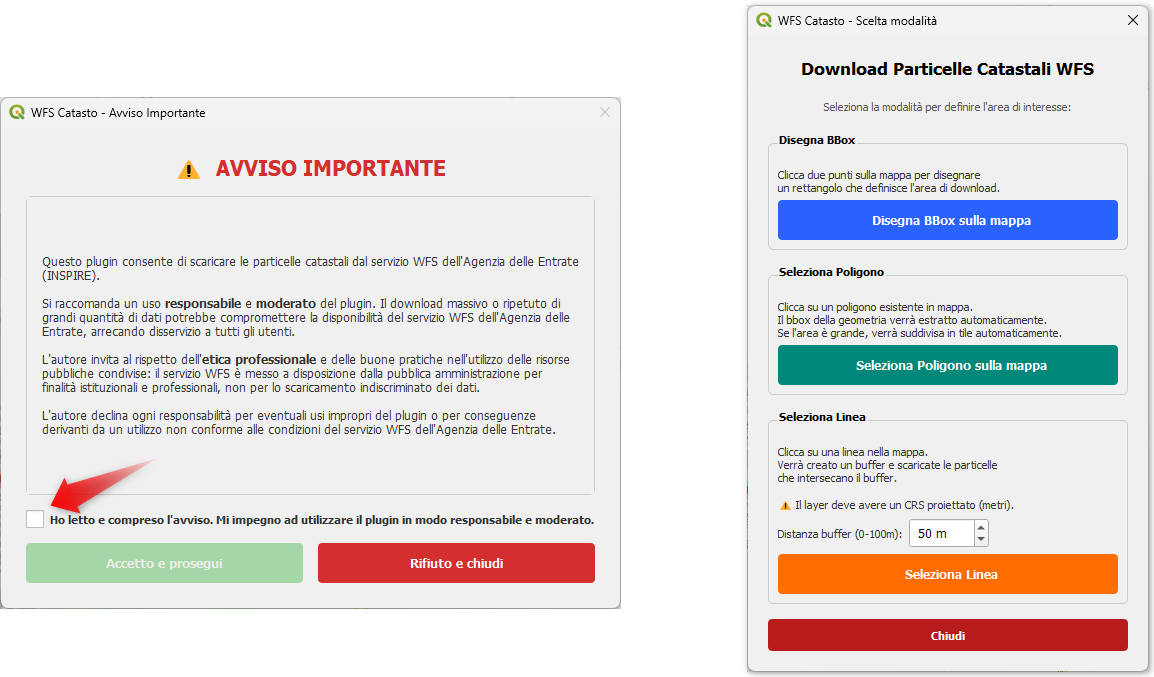
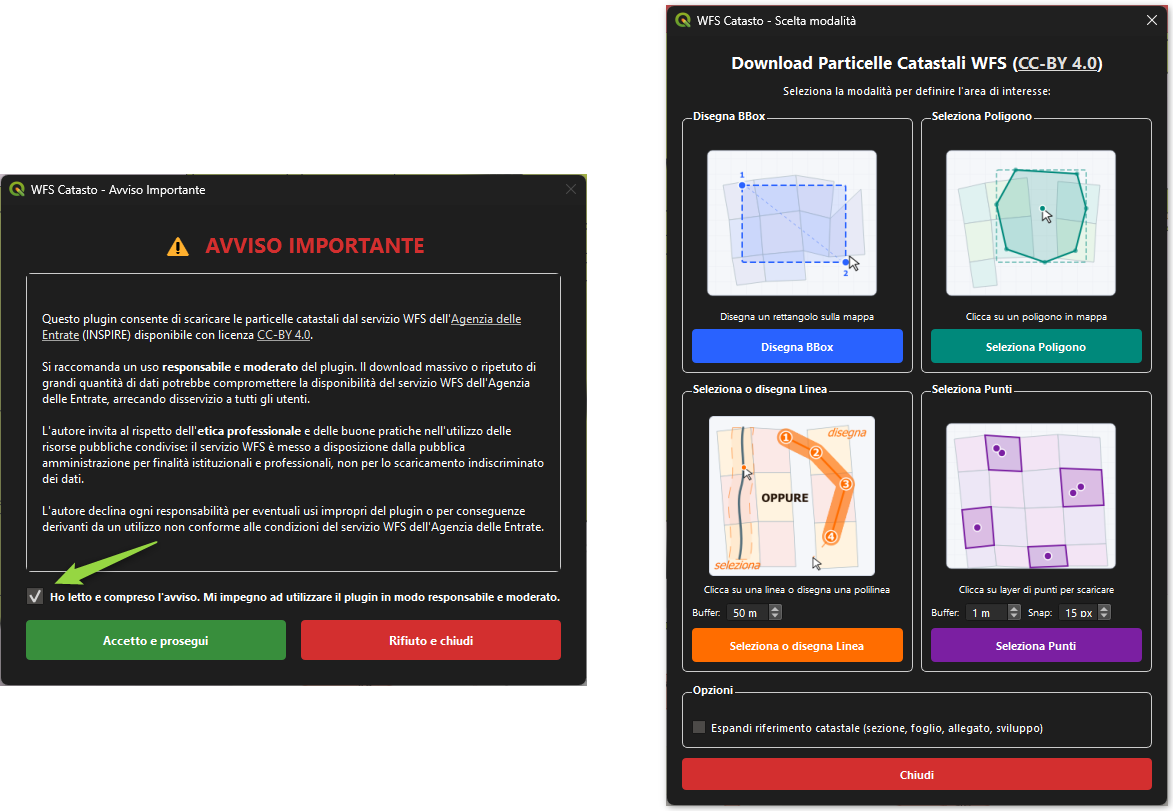
Aggiorna README.md con nuove funzionalità e changelog; modifica screen2.png

diff --git a/README.md b/README.md
@@ -1,18 +1,33 @@
 # WFS Catasto Download Particelle BBox
 
-Plugin per QGIS che consente di scaricare le particelle catastali dal servizio WFS dell'Agenzia delle Entrate (INSPIRE).
+Plugin per QGIS che consente di scaricare le particelle catastali dal servizio WFS dell'[Agenzia delle Entrate](https://www.agenziaentrate.gov.it/portale/cartografia-catastale-wfs) (INSPIRE) disponibile con licenza [CC-BY 4.0](https://creativecommons.org/licenses/by/4.0/deed.it).
 
 ![Panoramica del plugin in QGIS](./screen.png)
 
 ## Funzionalità
 
-Tre modalità di selezione dell'area di interesse:
+Quattro modalità di selezione dell'area di interesse:
 
 1. **Disegna BBox** - Clicca due punti sulla mappa per disegnare un rettangolo che definisce l'area di download.
 2. **Seleziona Poligono** - Clicca su un poligono esistente in mappa per estrarne automaticamente il bounding box. Se l'area è grande, viene suddivisa in tile automaticamente.
-3. **Seleziona Linea** - Clicca su una linea nella mappa e crea un buffer personalizzabile (0-100m) per scaricare le particelle che lo intersecano. Il layer deve avere un CRS proiettato (metri).
+3. **Seleziona o disegna Linea** - Clicca su una linea esistente oppure disegna una polilinea direttamente sulla mappa (click sinistro per aggiungere vertici, click destro per terminare, ESC per annullare). Crea un buffer personalizzabile (0-100m) per scaricare le particelle che lo intersecano.
+4. **Seleziona Punti** - Clicca su un layer di punti (o direttamente in mappa) per scaricare le particelle che contengono i punti. Supporta selezione parziale e auto-riproiezione UTM per CRS geografici.
 
-### Opzione: Espandi riferimento catastale (v1.1.0)
+### Funzione per il calcolatore di campi (v1.4.2)
+
+Il plugin registra la funzione `get_particella_info($geometry)` nel gruppo **Catasto** del Field Calculator. Interroga il WFS e restituisce un array con:
+
+| Indice | Contenuto |
+|--------|-----------|
+| `[0]` | NATIONALCADASTRALREFERENCE |
+| `[1]` | Foglio |
+| `[2]` | LABEL (numero particella) |
+| `[3]` | Codice comune (ADMINISTRATIVEUNIT) |
+| `[4]` | Geometria WKT |
+| `[5]` | Sezione censuaria |
+| `[6]` | Allegato |
+
+### Opzione: Espandi riferimento catastale
 
 Nella sezione **Opzioni** della finestra di scelta modalità è disponibile il checkbox **"Espandi riferimento catastale"**. Quando attivato, il plugin analizza il campo `NATIONALCADASTRALREFERENCE` e ne estrae 4 nuovi attributi nel layer di output:
 
@@ -36,13 +51,15 @@ Per ulteriori dettagli sulla codifica, consultare l'articolo di [Andrea Borruso]
 
 - Download multi-tile con progress bar per aree estese
 - Deduplicazione automatica delle feature
-- Filtro spaziale per la modalità linea con buffer
+- Filtro spaziale per tutte le modalità
 - Espansione opzionale del riferimento catastale nazionale
+- GUI con illustrazioni SVG e griglia 2x2
+- Tasto ESC per annullare qualsiasi modalità
 - Compatibile con QGIS 3 (Qt5) e QGIS 4 (Qt6)
 
 ## Interfaccia
 
-Al primo avvio per sessione QGIS viene mostrato un avviso obbligatorio sull'uso responsabile del plugin. Dopo l'accettazione si accede alla finestra di scelta modalità, che resta in primo piano permettendo di navigare la mappa prima di selezionare la modalità.
+Al primo avvio per sessione QGIS viene mostrato un avviso obbligatorio sull'uso responsabile del plugin. Dopo l'accettazione si accede alla finestra di scelta modalità con griglia 2x2, che permette di navigare la mappa prima di selezionare la modalità.
 
 ![Finestra di avviso e scelta modalità](./screen2.png)
 
@@ -71,6 +88,16 @@ Si raccomanda un uso **responsabile** e **moderato** del plugin. Il download mas
 L'autore invita al rispetto dell'**etica professionale** e delle buone pratiche nell'utilizzo delle risorse pubbliche condivise: il servizio WFS è messo a disposizione dalla pubblica amministrazione per finalità istituzionali e professionali, non per lo scaricamento indiscriminato dei dati.
 
 L'autore declina ogni responsabilità per eventuali usi impropri del plugin o per conseguenze derivanti da un utilizzo non conforme alle condizioni del servizio WFS dell'Agenzia delle Entrate.
+
+## Changelog
+
+- **1.4.2** - Funzione `get_particella_info($geometry)` per il calcolatore di campi
+- **1.4.1** - Disegno polilinea nella modalità Linea, licenza CC-BY 4.0 cliccabile, link cliccabili nell'avviso, fix GUI in primo piano
+- **1.4.0** - Nuova modalità Seleziona Punti, GUI griglia 2x2, tasto ESC
+- **1.3.0** - Illustrazioni SVG nella GUI, icona SVG
+- **1.2.0** - Ottimizzazione filtro spaziale modalità Poligono
+- **1.1.0** - Espansione riferimento catastale (sezione, foglio, allegato, sviluppo)
+- **1.0.0** - Prima release
 
 ## Licenza
 
